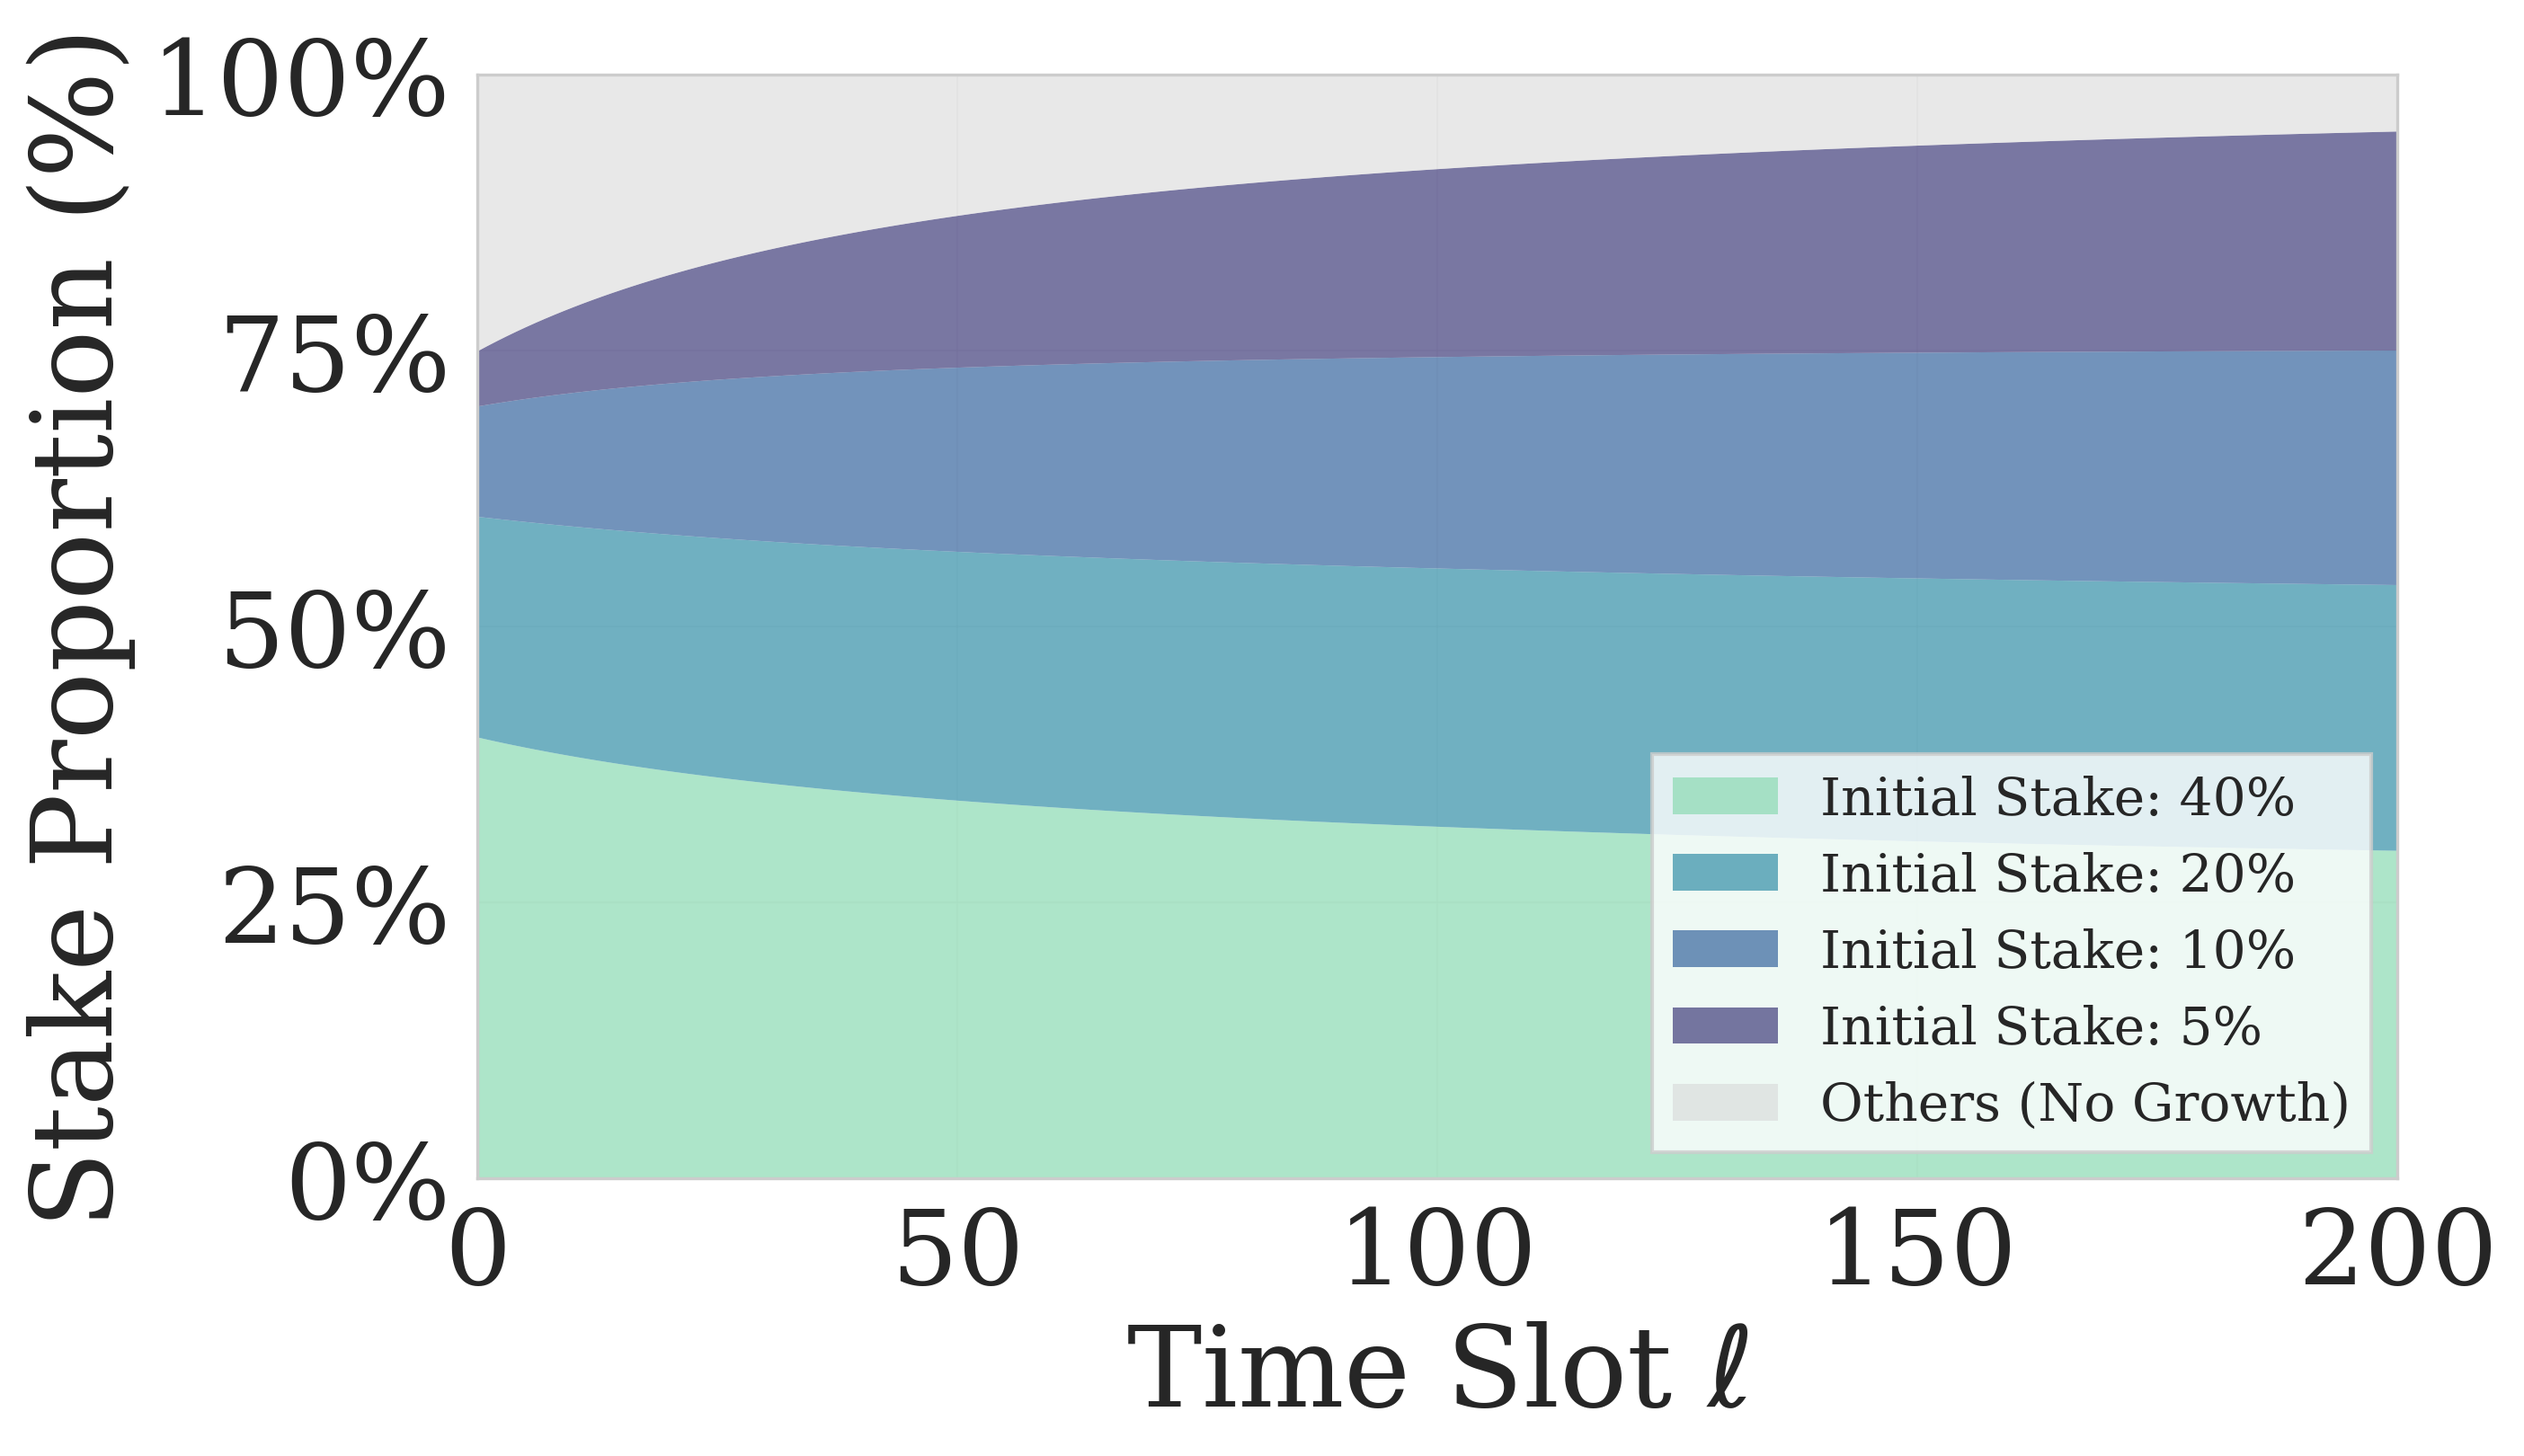
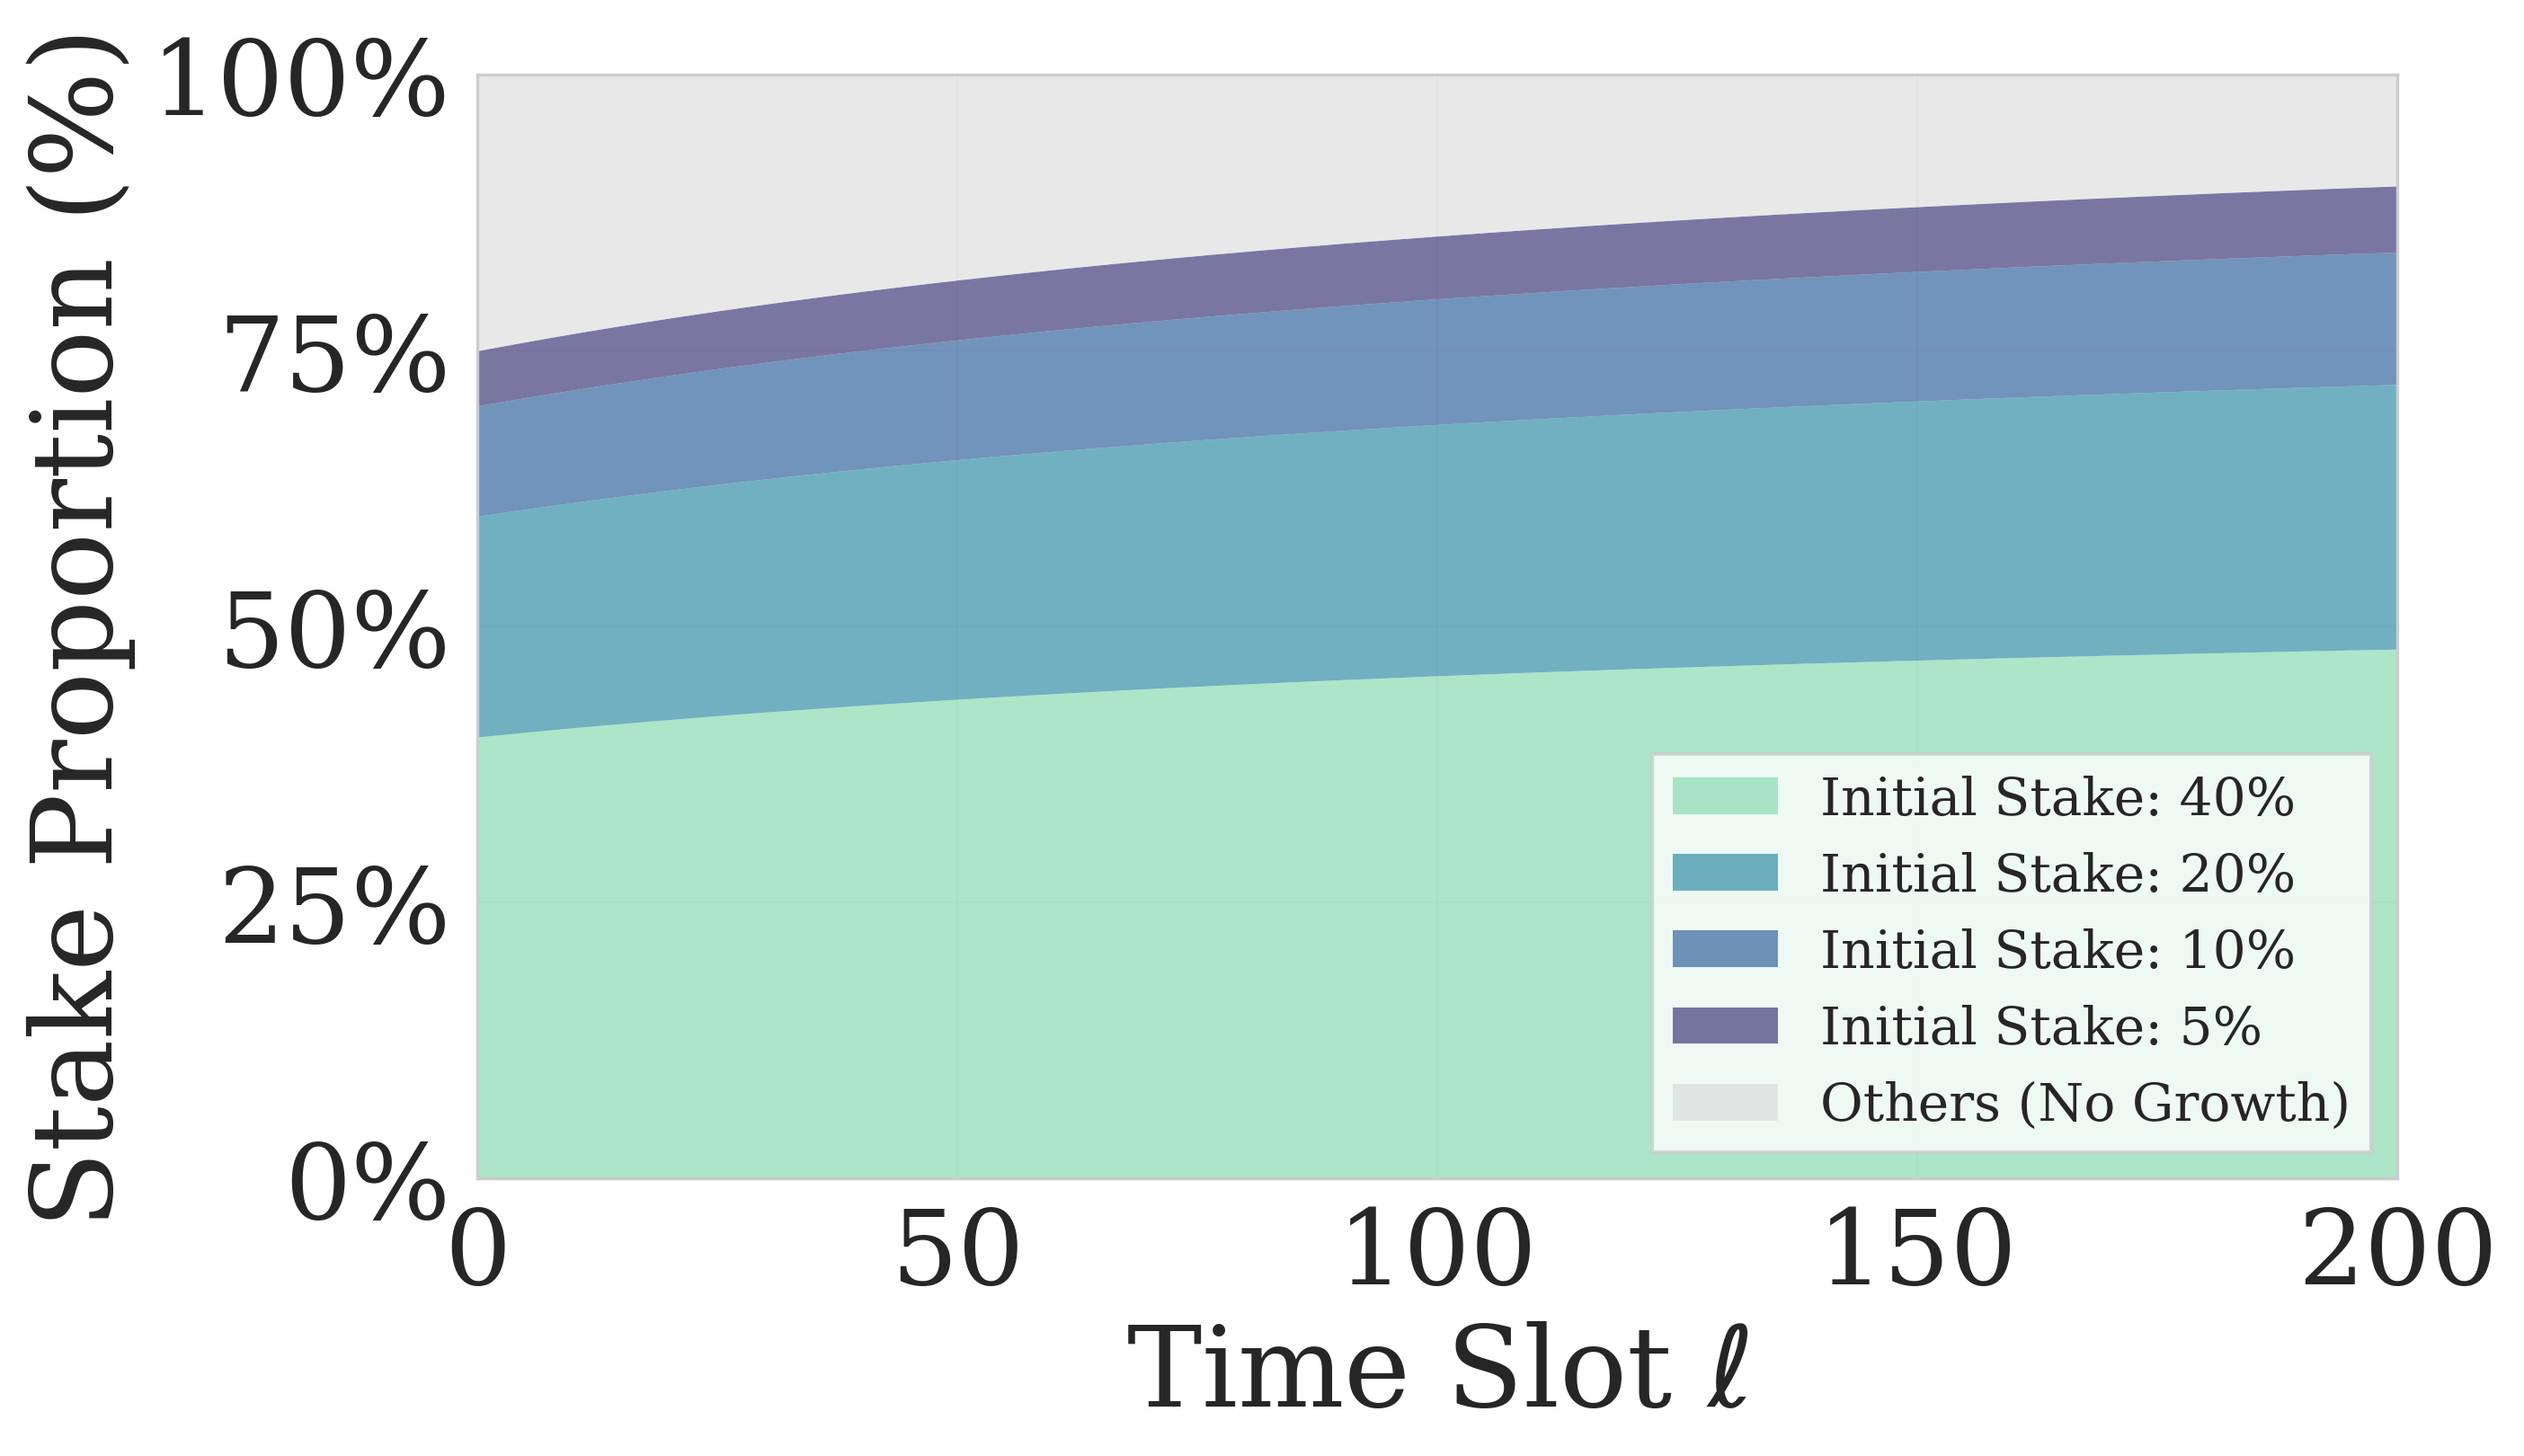
plot update

Changed region(s): [[0.1859, 0.0926, 0.9605, 0.4012], [0.1859, 0.4321, 0.9605, 0.5864]]

diff --git a/plots/theory/restaking.py b/plots/theory/restaking.py
@@ -16,10 +16,20 @@ rcParams.update({
 })
 
 def builder_growth_rate(f_pi, s_Bi, total_stake, gamma_Bi, v_i_T):
-    """Calculate the builder growth rate based on the derived formula."""
-    term1 = v_i_T * (1 - f_pi) / total_stake
-    term2 = f_pi * v_i_T / s_Bi
-    growth_rate = 1 + gamma_Bi * (term1 + term2)
+    """Calculate the builder growth rate based on simulation.
+    
+    In simulation: selection probability ∝ stake, so expected reward per slot = (s_Bi / total_stake) * v_i_T
+    However, larger entities may have advantages (better MEV extraction, economies of scale).
+    
+    Model: growth rate has a base component (proportional to stake share) plus a small advantage
+    for larger stake (representing better efficiency/ability to extract value).
+    """
+    # Base growth: proportional to stake share (selection probability)
+    base_growth = gamma_Bi * (s_Bi / total_stake) * v_i_T / s_Bi
+    # Additional advantage for larger stake (economies of scale, better MEV extraction)
+    # This makes larger entities grow slightly faster, leading to concentration
+    stake_advantage = 0.1 * gamma_Bi * (s_Bi / total_stake) * v_i_T / s_Bi
+    growth_rate = 1 + base_growth + stake_advantage
     return growth_rate
 
 def proposer_growth_rate(f_pi, s_Pi, total_stake, gamma_Pi, b_i_T):
@@ -108,14 +118,20 @@ def create_stake_evolution_plot():
     
     # Evolve over time
     for slot in range(1, len(time_slots)):
+        # Calculate current total from previous slot
         current_total = sum(all_stakes[i][-1] for i in range(len(entities))) + others_stakes[-1]
         
-        # Update each entity's stake
+        # Calculate new stakes for all entities based on current state
+        new_stakes = []
         for i, entity in enumerate(entities):
             current_stake = all_stakes[i][-1]
             growth_rate = builder_growth_rate(entity['f_pi'], current_stake, current_total, gamma_Bi, v_i_T)
             new_stake = current_stake * growth_rate
-            all_stakes[i].append(new_stake)
+            new_stakes.append(new_stake)
+        
+        # Update all stakes at once (after calculating all new values)
+        for i in range(len(entities)):
+            all_stakes[i].append(new_stakes[i])
         
         # Others remain constant (no growth)
         others_stakes.append(others_stakes[-1])
@@ -202,14 +218,20 @@ def create_proposer_stake_evolution_plot():
     
     # Evolve over time
     for slot in range(1, len(time_slots)):
+        # Calculate current total from previous slot
         current_total = sum(all_stakes[i][-1] for i in range(len(entities))) + others_stakes[-1]
         
-        # Update each entity's stake
+        # Calculate new stakes for all entities based on current state
+        new_stakes = []
         for i, entity in enumerate(entities):
             current_stake = all_stakes[i][-1]
             growth_rate = proposer_growth_rate(entity['f_pi'], current_stake, current_total, gamma_Pi, b_i_T)
             new_stake = current_stake * growth_rate
-            all_stakes[i].append(new_stake)
+            new_stakes.append(new_stake)
+        
+        # Update all stakes at once (after calculating all new values)
+        for i in range(len(entities)):
+            all_stakes[i].append(new_stakes[i])
         
         # Others remain constant (no growth)
         others_stakes.append(others_stakes[-1])
@@ -287,11 +309,11 @@ def create_shared_legend():
 
 if __name__ == "__main__":
     # Generate selected plots
-    print("Generating builder growth rate theory plot...")
-    fig1 = create_builder_growth_theory_plot()
-    fig1.savefig('figures/theory/builder_growth_rate.png', bbox_inches='tight', dpi=300)
-    print("Builder growth rate theory plot generated successfully!")
-    print("File saved: figures/theory/builder_growth_rate.png")
+    # print("Generating builder growth rate theory plot...")
+    # fig1 = create_builder_growth_theory_plot()
+    # fig1.savefig('figures/theory/builder_growth_rate.png', bbox_inches='tight', dpi=300)
+    # print("Builder growth rate theory plot generated successfully!")
+    # print("File saved: figures/theory/builder_growth_rate.png")
     
     print("\nGenerating builder stake evolution plot...")
     fig2 = create_stake_evolution_plot()
@@ -305,11 +327,11 @@ if __name__ == "__main__":
     print("Proposer stake evolution plot generated successfully!")
     print("File saved: figures/theory/proposer_stake_evolution.png")
     
-    print("\nGenerating builder stake legend...")
-    fig4 = create_shared_legend()
-    fig4.savefig('figures/theory/builder_stake_legend.png', bbox_inches='tight', dpi=300)
-    print("Builder stake legend generated successfully!")
-    print("File saved: figures/theory/builder_stake_legend.png")
+    # print("\nGenerating builder stake legend...")
+    # fig4 = create_shared_legend()
+    # fig4.savefig('figures/theory/builder_stake_legend.png', bbox_inches='tight', dpi=300)
+    # print("Builder stake legend generated successfully!")
+    # print("File saved: figures/theory/builder_stake_legend.png")
     
     print("\nAll selected plots generated successfully!")
     
